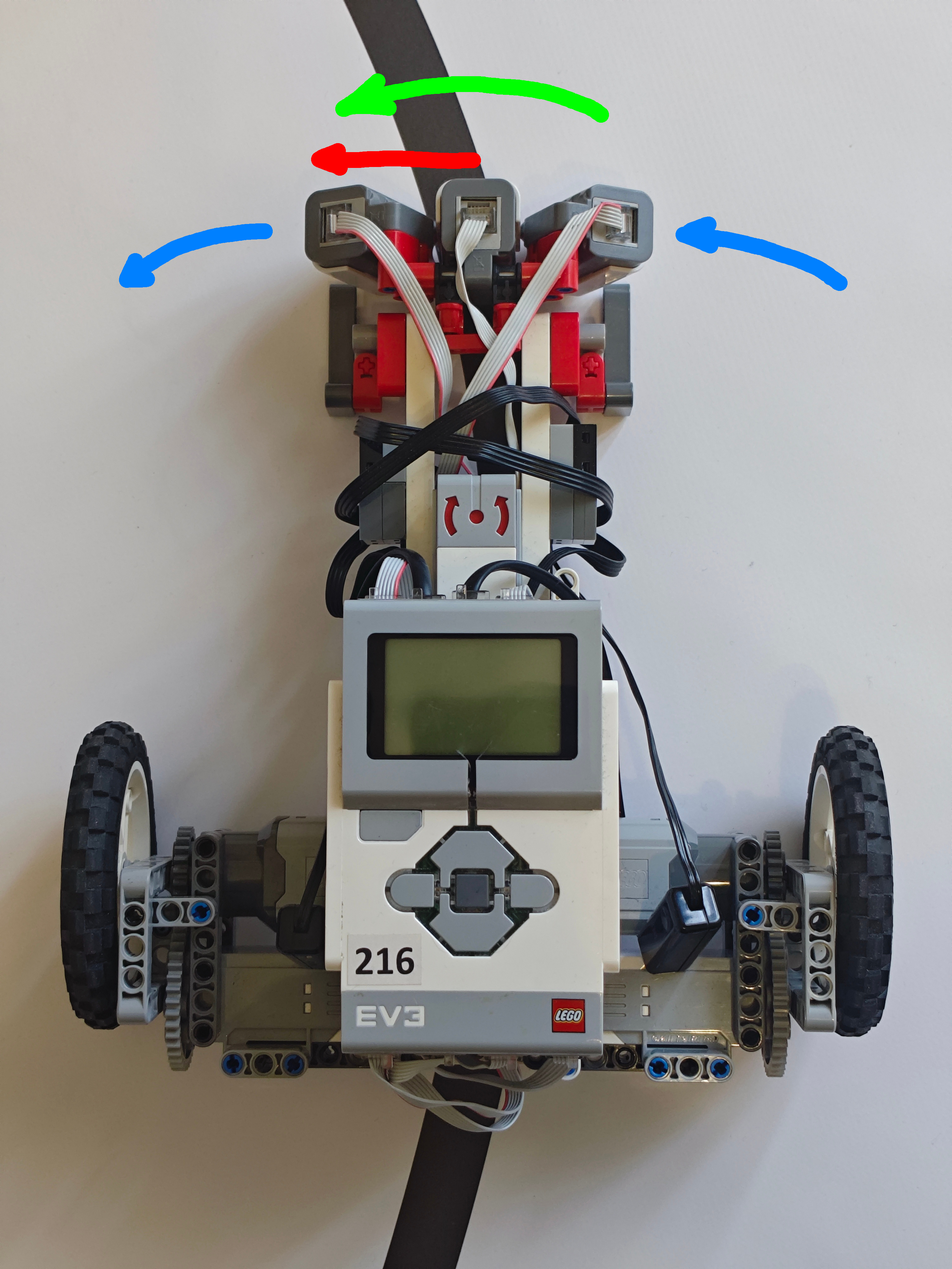
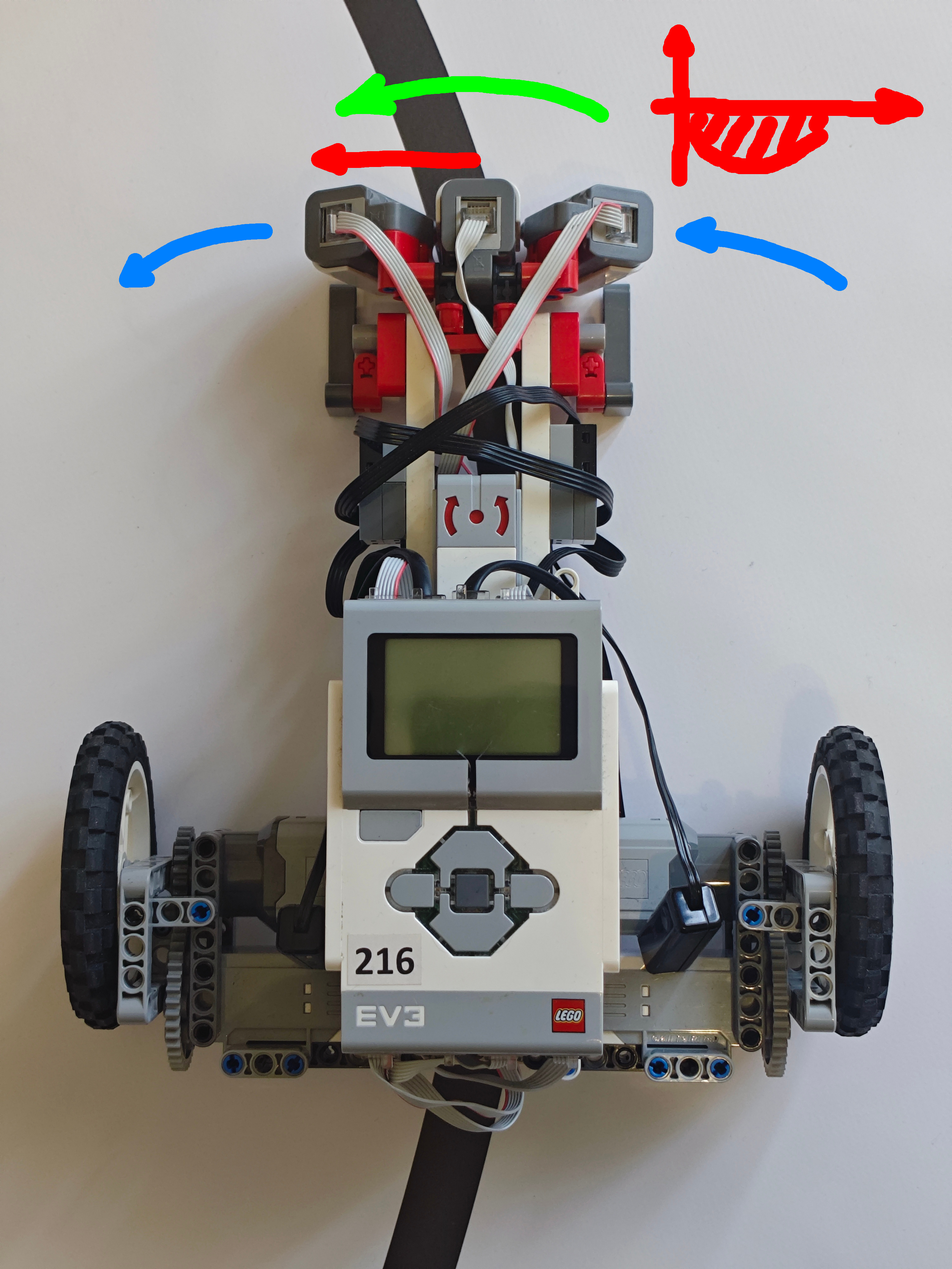
More slides refinements.

Changed region(s): [[0.6875, 0.0, 0.9688, 0.1562]]

diff --git a/EuroRust2025/slides.md b/EuroRust2025/slides.md
@@ -84,17 +84,17 @@ Talk Progress
 
 ```rust {2}
 
- line_followers() & PID::controllers
+ line_followers() & PID::controllers;
  
- embedded_rust + EV3::Brick
+ embedded_rust + Lego::EV3::Brick;
  
- why_async() & custom::Async::runtime()
+ why_async() & custom::Async::runtime();
  
- embedded * GUI
+ embedded * GUI;
  
- Telemetry
+ Telemetry;
  
- line_follower(control + algorithms) -> Advanced
+ line_follower(control + algorithms) -> Advanced;
 
 ```
 
@@ -257,7 +257,7 @@ Fixed Point Math
 
 <!-- pause -->
 #### 🔴
-##### apparent line speed
+##### apparent line side speed
 
 <!-- pause -->
 #### 🟢
@@ -334,19 +334,19 @@ BUT WAIT
 Talk Progress
 ---
 
-```rust {4}
+```rust {2|4}
 
- line_followers() & PID::controllers
+ line_followers() & PID::controllers;
  
- embedded_rust + EV3::Brick
+ embedded_rust + Lego::EV3::Brick;
  
- why_async() & custom::Async::runtime()
+ why_async() & custom::Async::runtime();
  
- embedded * GUI
+ embedded * GUI;
  
- Telemetry
+ Telemetry;
  
- line_follower(control + algorithms) -> Advanced
+ line_follower(control + algorithms) -> Advanced;
 
 ```
 
@@ -416,7 +416,7 @@ Line Follower Latency
 
 <!-- pause -->
 #### line *width*: **20㎜**
-#### max *latency*: about **4㎳**
+#### max *sensing period*: about **4㎳**
 
 ---
 
@@ -442,9 +442,12 @@ Enter EV3RT
 <!-- pause -->
 ##### *wrapping* the **C API** is easy
 <!-- pause -->
+#### just *declare* all **C external** *functions*
+##### and **wrap** them with *safe Rust* ones
+<!-- pause -->
 ##### EV3RT has a *dynamic* program **loader**
 <!-- pause -->
-##### *programs* are "custom" **ELF files**
+##### *programs* are "plain" **ELF files**
 <!-- pause -->
 ##### the *linker* script is **crazy**
 
@@ -461,10 +464,10 @@ EV3RT 🤖 Rust 🦀 Linking 🔗 Recipe
 #### compile Rust code to a static lib (`.a`)
 ##### that implements the `main()` function
 <!-- pause -->
-#### replace the `main` C `.o` file
+#### replace the C `.o` file providing **`main`**
 ##### with the Rust `.a` library
 <!-- pause -->
-#### use the EV3RT linker script
+#### use the **original** EV3RT **linker script**
 ##### to produce the loadable app
 
 <!-- pause -->
@@ -488,7 +491,7 @@ EV3RT 🤖 Rust 🦀 Linking 🔗 Recipe
 
 <!-- pause -->
 #### also provides *simplified* interfaces
-##### to **file** system and **Bluetooth**
+##### to **file** system and **Bluetooth** serial
 
 <!-- pause -->
 #### *usable*, but **not enough**
@@ -520,19 +523,19 @@ loop {
 Talk Progress
 ---
 
-```rust {6}
+```rust {4|6}
 
- line_followers() & PID::controllers
+ line_followers() & PID::controllers;
  
- embedded_rust + EV3::Brick
+ embedded_rust + Lego::EV3::Brick;
  
- why_async() & custom::Async::runtime()
+ why_async() & custom::Async::runtime();
  
- embedded * GUI
+ embedded * GUI;
  
- Telemetry
+ Telemetry;
  
- line_follower(control + algorithms) -> Advanced
+ line_follower(control + algorithms) -> Advanced;
 
 ```
 
@@ -542,7 +545,7 @@ The Need for `async`
 ---
 
 <!-- pause -->
-##### PARALLEL SENSOR READS
+##### CONCURRENT SENSOR READS
 
 <!-- pause -->
 ##### sensors *read* rate **mismatches**
@@ -551,7 +554,7 @@ The Need for `async`
 ##### RGB color:  **1㎳**
 
 <!-- pause -->
-#### a logic *loop* should read in **parallel**
+#### a logic *loop* should read **concurrently**
 <!-- pause -->
 #### *RGB* color data every **1ms**
 <!-- pause -->
@@ -565,12 +568,12 @@ The Need for `async`
 The Need for `async`
 ---
 
-##### PARALLEL LOGIC
+##### CONCURRENT LOGIC
 
 <!-- pause -->
 #### robot *logic* can be composed of
-#### different **parallel** state machines
-##### *(different **tasks**)*
+#### different **concurrent** state machines
+##### *(different **tasks** progressing at different **rates**)*
 
 <!-- pause -->
 #### process **line error**
@@ -587,7 +590,7 @@ The Need for `async`
 ##### collect **telemetry**
 
 <!-- pause -->
-##### handle **screen** and **input**
+##### handle **screen** and **input** buttons
 
 ---
 
@@ -614,7 +617,9 @@ EV3RT API Mismatch
 
 <!-- pause -->
 #### **EV3RT** does **not** expose **interrupts**
-##### but it *reads* sensors in **parallel** *internally*
+<!-- pause -->
+#### but it *reads* sensors **concurrently** *internally*
+##### *(and provides their **values** in a **shared RAM** area)*
 
 <!-- pause -->
 #### run an **event loop** collecting
@@ -628,11 +633,13 @@ EV3RT API Mismatch
 ##### implement `poll` checking for **new** *data*
 
 <!-- pause -->
-##### **compose** `Future`s as *usual*
+#### **compose** `Future`s with *usual combinators*
+##### *(`zip` or `join`, `select`...)*
 
 <!-- pause -->
-#### in **each** event loop *iteration*
-##### **poll** the *root* `Future`
+#### **each** event loop *iteration*
+#### **`poll`s** the *root* `Future`
+##### *(this kicks all tasks into making progress)*
 
 ---
 
@@ -786,19 +793,19 @@ So far, so good
 Talk Progress
 ---
 
-```rust {8}
+```rust {6|8}
 
- line_followers() & PID::controllers
+ line_followers() & PID::controllers;
  
- embedded_rust + EV3::Brick
+ embedded_rust + Lego::EV3::Brick;
  
- why_async() & custom::Async::runtime()
+ why_async() & custom::Async::runtime();
  
- embedded * GUI
+ embedded * GUI;
  
- Telemetry
+ Telemetry;
  
- line_follower(control + algorithms) -> Advanced
+ line_follower(control + algorithms) -> Advanced;
 
 ```
 
@@ -812,7 +819,7 @@ We Need a UI
 
 <!-- pause -->
 ![image:width:50%](img/bot-gui.jpg)
-##### Let's *see* what it **means**
+##### it *looks* like **this**
 
 ---
 
@@ -849,7 +856,7 @@ Graphical Requirements
 ##### statically pick a screen orientation
 
 <!-- pause -->
-##### very easy to read "in action"
+##### should be easy to read "in action"
 
 <!-- pause -->
 ##### drowing real time bar charts
@@ -910,19 +917,19 @@ Fast Screen Refresh
 Talk Progress
 ---
 
-```rust {10}
+```rust {8|10}
 
- line_followers() & PID::controllers
+ line_followers() & PID::controllers;
  
- embedded_rust + EV3::Brick
+ embedded_rust + Lego::EV3::Brick;
  
- why_async() & custom::Async::runtime()
+ why_async() & custom::Async::runtime();
  
- embedded * GUI
+ embedded * GUI;
  
- Telemetry
+ Telemetry;
  
- line_follower(control + algorithms) -> Advanced
+ line_follower(control + algorithms) -> Advanced;
 
 ```
 
@@ -931,6 +938,7 @@ Talk Progress
 Understanding What Goes Wrong
 ---
 
+<!-- pause -->
 ##### from **UI**
 ##### to **TELEMETRY**
 
@@ -991,10 +999,11 @@ The Telemetry Challenge
 #### we want to *see* **every** decision **taken**
 ##### *(a 20 bytes sample)*
 <!-- pause -->
-##### potentially at a **10㎑** rate
+##### potentially at a **1㎑** rate
 <!-- pause -->
-##### transmitting **200 KB/s** over **BT**
+##### transmitting **20 KB/s** over **BT** serial
 <!-- pause -->
+#### with *EV3RT*,
 ##### *while* the robot *runs*
 <!-- pause -->
 ##### ⛔ **NO WAY** ⛔
@@ -1012,10 +1021,10 @@ Offline Telemetry
 ##### *this is more than enough!*
 
 <!-- pause -->
-##### *(reducing sample rate covers more time)*
+##### **save** the *data file* when the race **stops**
 
 <!-- pause -->
-##### **save** the *data file* when the race **stops**
+##### *(reducing sample rate covers more time)*
 
 ---
 
@@ -1045,19 +1054,19 @@ Telemetry Result
 Talk Progress
 ---
 
-```rust {12}
+```rust {10|12}
 
- line_followers() & PID::controllers
+ line_followers() & PID::controllers;
  
- embedded_rust + EV3::Brick
+ embedded_rust + Lego::EV3::Brick;
  
- why_async() & custom::Async::runtime()
+ why_async() & custom::Async::runtime();
  
- embedded * GUI
+ embedded * GUI;
  
- Telemetry
+ Telemetry;
  
- line_follower(control + algorithms) -> Advanced
+ line_follower(control + algorithms) -> Advanced;
 
 ```
 
@@ -1136,7 +1145,7 @@ Talk Progress
 
 <!-- pause -->
 #### 🔴
-##### apparent line speed
+##### apparent line side speed
 
 <!-- pause -->
 #### 🟢
